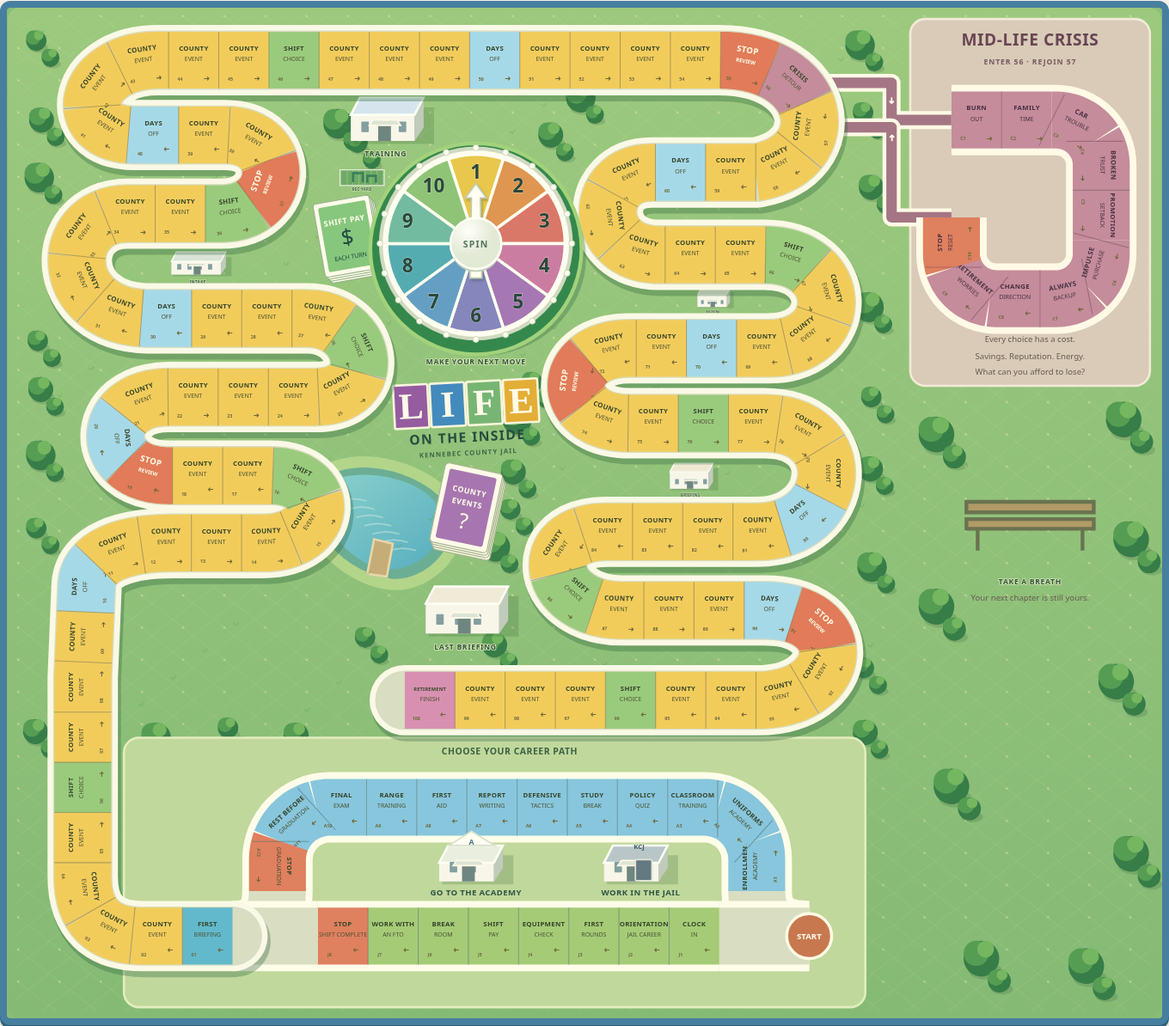
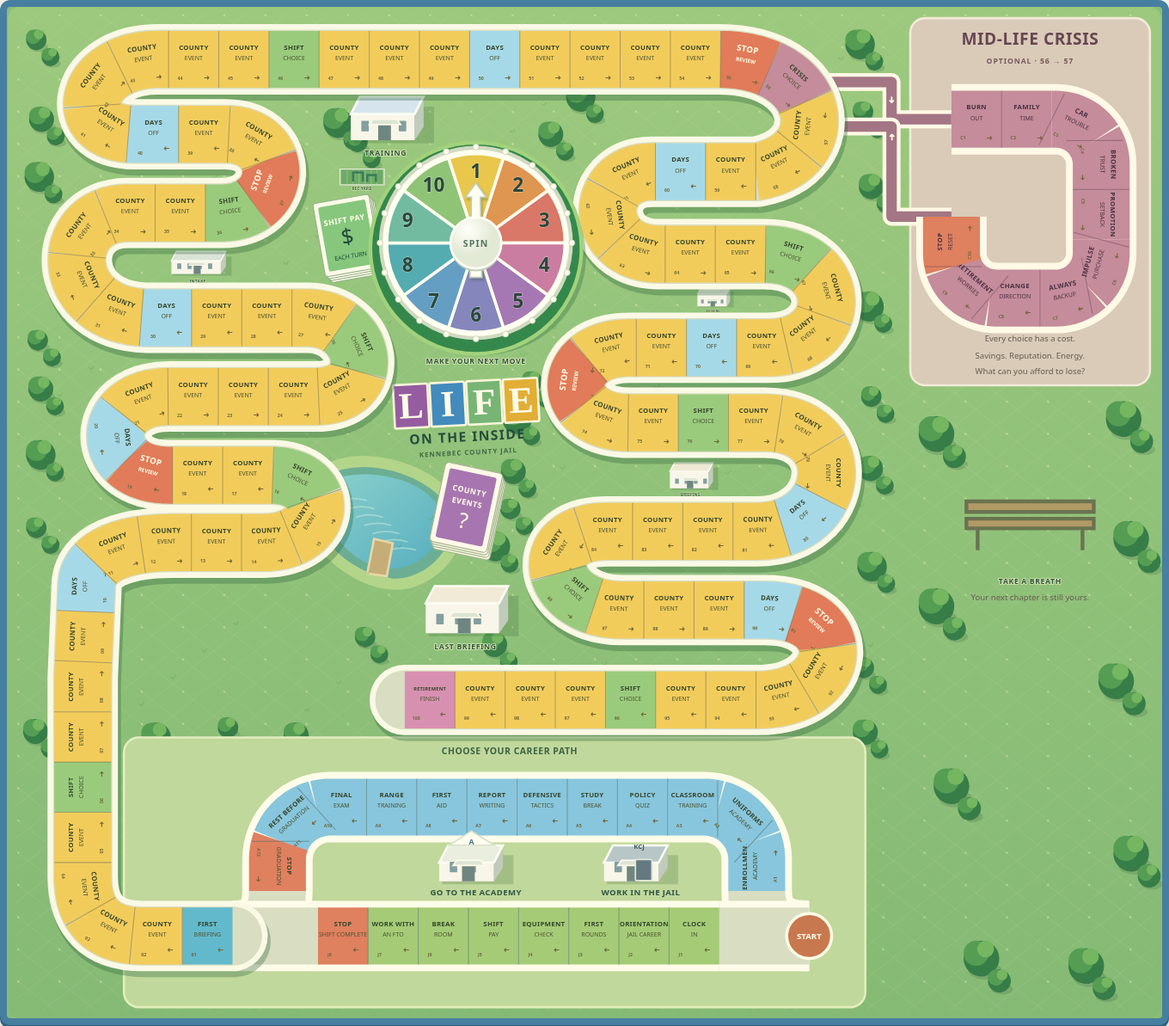
Let players choose whether to take the Mid-Life Crisis detour

diff --git a/public/life/rules.js b/public/life/rules.js
@@ -39,7 +39,7 @@ export const entryTracks={
  ]
 };
 export const inEntry=player=>Number.isInteger(player.entryPosition);
-// Stop 56 sends each career through this branch once; Stop 57 is the rejoin point.
+// Stop 56 offers this optional branch once; both routes continue at Stop 57.
 export const crisisFork=55,crisisRejoin=56;
 export const crisisSpaces=[
  {name:'Burnout',lines:['BURN','OUT'],text:'The long shifts are catching up with you. Rest costs money; pushing through costs you.',options:[option('Take unpaid leave',-900,0,4),option('Push through extra shifts',250,-1,-4)]},
@@ -54,7 +54,8 @@ export const crisisSpaces=[
  {name:'A New Chapter',lines:['STOP','RESET'],text:'Set your priorities for the next chapter. Neither choice is free. After this decision, rejoin the main road at Stop 57.',options:[option('Set boundaries and recover',-600,0,3),option('Chase the next paycheck',300,-2,-3)]}
 ];
 export const inCrisis=player=>Number.isInteger(player.crisisPosition);
-function enterCrisis(g,p){p.crisisPosition=0;g.pending={type:'crisis'};g.phase='choice';entry(g,`${p.name} entered the Mid-Life Crisis detour at Stop 56.`);}
+function offerCrisis(g,p){g.pending={type:'crisis-fork'};g.phase='choice';entry(g,`${p.name} reached the Mid-Life Crisis choice at Stop 56.`);}
+function enterCrisis(g,p){p.crisisTaken=true;p.crisisPosition=0;g.pending={type:'crisis'};g.phase='choice';entry(g,`${p.name} entered the Mid-Life Crisis detour at Stop 56.`);}
 // Original career events. Values are game money, rather than county pay rates.
 export const events=[
  {id:'holiday',title:'Holiday coverage',icon:'☀',text:'The holiday roster has an empty spot. Your family has plans, too.',options:[option('Take the holiday shift',650,1,-3),option('Keep your day off',0,0,3)]},
@@ -97,7 +98,7 @@ export function validateRoster(roster){
  const names=new Set(),chosen=new Set();
  return roster.map(p=>{const name=typeof p.name==='string'?p.name.trim():'';if(!name||name.length>30)throw Error('Give every player a name of up to 30 characters.');if(names.has(name.toLowerCase()))throw Error('Each player needs a different name.');if(!pawns.some(c=>c.id===p.pawn)||chosen.has(p.pawn))throw Error('Choose a different pawn for each player.');names.add(name.toLowerCase());chosen.add(p.pawn);return {name,pawn:p.pawn};});
 }
-export function createGame(roster,random=Math.random){return {version:1,boardSize:spaceCount,players:validateRoster(roster).map(p=>({...p,position:0,cash:1000,reputation:3,energy:7,rank:0,retired:false,academyDone:false,careerPath:null,entryPosition:null,crisisPosition:null,crisisDone:false})),turn:0,phase:'choice',deck:shuffle(events.map(e=>e.id),random),cursor:0,dice:null,route:[],pending:{type:'academy'},log:['The crew has arrived for their first briefing.'],turns:0};}
+export function createGame(roster,random=Math.random){return {version:1,boardSize:spaceCount,players:validateRoster(roster).map(p=>({...p,position:0,cash:1000,reputation:3,energy:7,rank:0,retired:false,academyDone:false,careerPath:null,entryPosition:null,crisisPosition:null,crisisDone:false,crisisTaken:false})),turn:0,phase:'choice',deck:shuffle(events.map(e=>e.id),random),cursor:0,dice:null,route:[],pending:{type:'academy'},log:['The crew has arrived for their first briefing.'],turns:0};}
 export const score=p=>p.cash+p.reputation*100+p.energy*50;
 export function standings(game){return game.players.map((p,i)=>({...p,index:i,score:score(p)})).sort((a,b)=>b.score-a.score);}
 const clamp=n=>Math.max(0,Math.min(10,n));
@@ -110,6 +111,7 @@ export function decision(game){
  if(game.pending.type==='entry'){
   const space=entryTracks[p.careerPath][p.entryPosition];return {title:(p.careerPath==='academy'?'Academy · ':'Jail career · ')+space.name,icon:space.promote?'★':'◷',text:space.text,options:[{...option(space.promote?'Graduate and join the main road':p.entryPosition===entryTracks[p.careerPath].length-1?'Join the main career road':'Continue',space.cash||0,space.reputation||0,space.energy||0),promote:!!space.promote}]};
  }
+ if(game.pending.type==='crisis-fork')return {title:'Mid-Life Crisis · Choose your path',icon:'⇄',text:'Stay on the main road, or take the optional ten-space Mid-Life Crisis detour. The detour brings difficult tradeoffs between savings, reputation, and energy. Both paths continue at Stop 57.',options:[option('Stay on the main road'),option('Take the Mid-Life Crisis detour')]};
  if(game.pending.type==='crisis'){const space=crisisSpaces[p.crisisPosition];return {...space,title:'Mid-Life Crisis · '+space.name,icon:'⚡'};}
  if(game.pending.type==='event')return events.find(e=>e.id===game.pending.id);
  if(game.pending.type==='shift')return {title:'Your shift. Your call.',icon:'◷',text:'Money, experience, or a little breathing room? Choose what you need today.',options:[option('Work overtime',550,0,-3),option('Take a training shift',-100,3,-1),option('Take a recovery day',-50,0,4)]};
@@ -133,17 +135,17 @@ export function perform(before,action,random=Math.random){
   const start=p.position,fork=!p.crisisDone&&start<=crisisFork&&start+g.dice>=crisisFork,end=fork?crisisFork:Math.min(lastSpace,start+g.dice);g.route=Array.from({length:end-start},(_,i)=>start+i+1);p.position=end;
   // Passing reviews gives every career a chance to advance, even with large rolls.
   const review=g.route.some(n=>spaces[n].type==='promotion');
-  if(fork){if(review){g.pending={type:'promotion',thenCrisis:true};g.phase='choice';}else enterCrisis(g,p);return g;}
+  if(fork){if(review){g.pending={type:'promotion',thenCrisis:true};g.phase='choice';}else offerCrisis(g,p);return g;}
   if(end===lastSpace){p.retired=true;g.phase='end';g.pending=null;entry(g,`${p.name} retired with a score of ${score(p).toLocaleString('en-US')}.`);}
   else {let type=review?'promotion':spaces[end].type;if(type==='event'){if(g.cursor===g.deck.length){g.deck=shuffle(events.map(e=>e.id),random);g.cursor=0;}g.pending={type,id:g.deck[g.cursor++]};}else g.pending={type};g.phase='choice';}
  }else if(action.type==='choose'){
   if(g.phase!=='choice')throw Error('There is no decision to make.');
   const event=decision(g),choice=Number.isInteger(action.index)?event.options[action.index]:null;
   if(!choice||choice.disabled)throw Error('Choose an available option.');
-  const academy=g.pending.type==='academy',crisis=g.pending.type==='crisis',thenCrisis=!!g.pending.thenCrisis,finishCrisis=crisis&&p.crisisPosition===crisisSpaces.length-1,finishEntry=g.pending.type==='entry'&&p.entryPosition===entryTracks[p.careerPath].length-1;apply(p,choice);if(choice.promote)p.rank++;
+  const academy=g.pending.type==='academy',forkChoice=g.pending.type==='crisis-fork',crisis=g.pending.type==='crisis',thenCrisis=!!g.pending.thenCrisis,finishCrisis=crisis&&p.crisisPosition===crisisSpaces.length-1,finishEntry=g.pending.type==='entry'&&p.entryPosition===entryTracks[p.careerPath].length-1;apply(p,choice);if(choice.promote)p.rank++;
   // Exhaustion costs game money, then gives enough rest to keep playing.
-  let recovery='';if(p.energy===0){p.cash-=200;p.energy=3;recovery=' Exhaustion: $200 recovery cost; energy restored to 3.';}
-  entry(g,`${p.name}: ${crisis?event.title+' — ':''}${choice.label}.${recovery}`);g.pending=null;g.phase=academy?'roll':'end';if(academy){p.academyDone=true;p.careerPath=action.index===0?'academy':'jail';p.entryPosition=0;}if(finishEntry)p.entryPosition=null;if(finishCrisis){p.crisisPosition=null;p.crisisDone=true;p.position=crisisRejoin;entry(g,`${p.name} rejoined the main road at Stop 57.`);}if(thenCrisis)enterCrisis(g,p);
+  let recovery='';if(p.energy===0&&!forkChoice){p.cash-=200;p.energy=3;recovery=' Exhaustion: $200 recovery cost; energy restored to 3.';}
+  entry(g,`${p.name}: ${crisis?event.title+' — ':''}${choice.label}.${recovery}`);g.pending=null;g.phase=academy?'roll':'end';if(academy){p.academyDone=true;p.careerPath=action.index===0?'academy':'jail';p.entryPosition=0;}if(finishEntry)p.entryPosition=null;if(finishCrisis){p.crisisPosition=null;p.crisisDone=true;p.position=crisisRejoin;entry(g,`${p.name} rejoined the main road at Stop 57.`);}if(thenCrisis)offerCrisis(g,p);if(forkChoice){if(action.index===1)enterCrisis(g,p);else{p.crisisDone=true;p.crisisTaken=false;p.position=crisisRejoin;entry(g,`${p.name} stayed on the main road and continued to Stop 57.`);}}
  }else if(action.type==='end'){
   if(g.phase!=='end')throw Error('Resolve the shift before ending your turn.');
   g.turns++;g.route=[];
@@ -159,9 +161,9 @@ export function validateGame(g){
  const savedSize=g.boardSize===undefined?36:g.boardSize;if(![36,spaceCount].includes(savedSize))throw Error('This saved career could not be read.');
  if(!['roll','choice','end','over'].includes(g.phase)||!integer(g.turn,0,g.players.length-1)||!integer(g.turns,0,10000)||!Array.isArray(g.deck)||g.deck.length!==events.length||new Set(g.deck).size!==events.length||g.deck.some(id=>!events.some(e=>e.id===id))||!integer(g.cursor,0,g.deck.length)||!Array.isArray(g.log)||g.log.some(t=>typeof t!=='string')||!Array.isArray(g.route)||g.route.some(n=>!integer(n,1,savedSize-1))||(g.dice!==null&&!integer(g.dice,1,spinnerMax)))throw Error('This saved career could not be read.');
  for(const p of g.players)if(!integer(p.position,0,savedSize-1)||!Number.isSafeInteger(p.cash)||!integer(p.rank,0,4)||!integer(p.reputation,0,10)||!integer(p.energy,0,10)||typeof p.retired!=='boolean'||typeof p.academyDone!=='boolean'||(p.careerPath!==undefined&&![null,'academy','jail'].includes(p.careerPath))||p.retired!==(p.position===savedSize-1))throw Error('This saved career could not be read.');
- for(const p of g.players)if((p.crisisDone!==undefined&&typeof p.crisisDone!=='boolean')||(p.crisisPosition!==undefined&&p.crisisPosition!==null&&(!integer(p.crisisPosition,0,crisisSpaces.length-1)||p.crisisDone||!p.academyDone||inEntry(p)||p.position!==crisisFork||p.retired)))throw Error('This saved career could not be read.');
+ for(const p of g.players)if((p.crisisDone!==undefined&&typeof p.crisisDone!=='boolean')||(p.crisisTaken!==undefined&&typeof p.crisisTaken!=='boolean')||(p.crisisPosition!==undefined&&p.crisisPosition!==null&&(!integer(p.crisisPosition,0,crisisSpaces.length-1)||p.crisisDone||!p.academyDone||inEntry(p)||p.position!==crisisFork||p.retired)))throw Error('This saved career could not be read.');
  for(const p of g.players)if(p.entryPosition!==undefined&&p.entryPosition!==null&&(!integer(p.entryPosition,0,(entryTracks[p.careerPath]?.length||0)-1)||!p.academyDone||p.position!==0||p.retired))throw Error('This saved career could not be read.');
- if(g.phase==='choice'&&(!g.pending||!['academy','entry','crisis','promotion','shift','rest','event'].includes(g.pending.type)||(g.pending.type==='event'&&!events.some(e=>e.id===g.pending.id))||(g.pending.type==='entry'&&!inEntry(g.players[g.turn]))||(g.pending.type==='crisis'&&!inCrisis(g.players[g.turn]))||(g.pending.thenCrisis!==undefined&&(g.pending.thenCrisis!==true||g.pending.type!=='promotion'||g.players[g.turn].position!==crisisFork||g.players[g.turn].crisisDone||inEntry(g.players[g.turn])||inCrisis(g.players[g.turn])))))throw Error('This saved career could not be read.');
+ if(g.phase==='choice'&&(!g.pending||!['academy','entry','crisis-fork','crisis','promotion','shift','rest','event'].includes(g.pending.type)||(g.pending.type==='event'&&!events.some(e=>e.id===g.pending.id))||(g.pending.type==='entry'&&!inEntry(g.players[g.turn]))||(g.pending.type==='crisis'&&!inCrisis(g.players[g.turn]))||(g.pending.type==='crisis-fork'&&(g.players[g.turn].position!==crisisFork||g.players[g.turn].crisisDone||inCrisis(g.players[g.turn])||inEntry(g.players[g.turn])||!g.players[g.turn].academyDone))||(g.pending.thenCrisis!==undefined&&(g.pending.thenCrisis!==true||g.pending.type!=='promotion'||g.players[g.turn].position!==crisisFork||g.players[g.turn].crisisDone||inEntry(g.players[g.turn])||inCrisis(g.players[g.turn])))))throw Error('This saved career could not be read.');
  if(g.phase==='over'?!g.players.every(p=>p.retired):g.phase!=='end'&&g.players[g.turn].retired)throw Error('This saved career could not be read.');
  if(savedSize!==spaceCount){
   const migrated=structuredClone(g),position=n=>Math.round(n/(savedSize-1)*lastSpace);

diff --git a/public/life.html b/public/life.html
@@ -1,10 +1,10 @@
 <!doctype html><html lang="en"><head><meta charset="utf-8"><meta name="viewport" content="width=device-width,initial-scale=1"><title>Life on the Inside · The County Career</title><link rel="stylesheet" href="/life/style.css"><link rel="stylesheet" href="/life/board.css"><link rel="stylesheet" href="/online.css"><script type="module" src="/life/app.js"></script></head><body>
 <header class="life-header"><a class="life-brand" href="/"><span class="brand-stamp" aria-hidden="true">L</span><span>Life on the Inside<small>THE COUNTY CAREER</small></span></a><nav><button id="showRules" class="text-button" type="button">How to play</button><a href="/">All games</a></nav></header>
 <main id="lifeMain"><section class="game-intro"><div><p class="eyebrow">KENNEBEC COUNTY JAIL</p><h1>A career worth<br>talking about.</h1></div><p>Work the shift. Look after your crew.<br>Make it to retirement your way.</p></section>
-<div class="career-layout"><section class="board-panel" aria-label="Career board"><div class="board-heading"><span>THE COUNTY CAREER</span><a href="/life-preview">View board mockup</a></div><div id="careerBoard" class="career-board" aria-label="Career path from first briefing to retirement"><div id="careerTiles" class="career-tiles"></div><div id="careerTokens" class="career-tokens"></div></div><div class="board-key"><span><b>Yellow</b> County event</span><span><b>Coral</b> Promotion</span><span><b>Green</b> Shift choice</span><span><b>Blue</b> Days off</span><span><b>Rose</b> Mid-Life Crisis</span></div><p class="board-note">Play through the Academy or jail starting spaces, then follow the main road from First Briefing to Retirement. Passing a promotion stop triggers a review. Stop 56 sends you through the 10-space Mid-Life Crisis detour; rejoin at Stop 57.</p></section>
+<div class="career-layout"><section class="board-panel" aria-label="Career board"><div class="board-heading"><span>THE COUNTY CAREER</span><a href="/life-preview">View board mockup</a></div><div id="careerBoard" class="career-board" aria-label="Career path from first briefing to retirement"><div id="careerTiles" class="career-tiles"></div><div id="careerTokens" class="career-tokens"></div></div><div class="board-key"><span><b>Yellow</b> County event</span><span><b>Coral</b> Promotion</span><span><b>Green</b> Shift choice</span><span><b>Blue</b> Days off</span><span><b>Rose</b> Mid-Life Crisis</span></div><p class="board-note">Play through the Academy or jail starting spaces, then follow the main road from First Briefing to Retirement. Passing a promotion stop triggers a review. At Stop 56, choose the main road or the optional 10-space Mid-Life Crisis detour. Both continue at Stop 57.</p></section>
 <section class="turn-panel" aria-label="Turn controls"><p id="turnEyebrow" class="eyebrow">ON THE CLOCK</p><h2 id="turnName">Loading your crew…</h2><p id="turnRank"></p><div id="turnStats" class="turn-stats"></div><div class="roll-area"><span id="careerDie" class="spinner-result" aria-label="Spinner ready">–</span><p id="turnHint" role="status" aria-live="polite"></p></div><button id="rollCareer" class="primary" type="button">Spin for your shift →</button><button id="openDecision" class="primary" type="button" hidden>Make your decision →</button><button id="endCareerTurn" class="primary" type="button" hidden>End turn →</button><p id="lifeError" class="error" role="alert"></p><button data-end-game class="text-button danger" type="button" hidden>End game</button></section></div>
 <section class="roster-section" aria-labelledby="rosterTitle"><div class="section-heading"><p class="eyebrow">YOUR CREW</p><h2 id="rosterTitle">Everyone’s building a story.</h2></div><div id="careerRoster" class="career-roster"></div></section>
 <section id="careerResults" class="results" aria-labelledby="resultsTitle" hidden><p class="eyebrow">THE FINAL BRIEFING</p><h2 id="resultsTitle"></h2><p>Savings + $100 per reputation + $50 per energy.</p><ol id="finalScores"></ol><a class="primary" href="/life-setup">Play again →</a></section>
 <details class="shift-log"><summary>Shift log</summary><ol id="careerLog"></ol></details></main>
 <dialog id="careerDecision" class="decision-dialog" aria-labelledby="decisionTitle"><button id="closeDecision" class="dialog-close" type="button" aria-label="Close decision">×</button><p id="decisionPlayer" class="eyebrow"></p><span id="decisionIcon" class="decision-icon" aria-hidden="true"></span><h2 id="decisionTitle"></h2><p id="decisionText"></p><div id="decisionOptions"></div><p id="decisionError" class="error" role="alert"></p><p class="dialog-note">Your choice becomes part of your career.</p></dialog>
-<dialog id="careerRules" class="rules-dialog" aria-labelledby="rulesTitle"><button id="closeRules" class="dialog-close" type="button" aria-label="Close rules">×</button><p class="eyebrow">THE COUNTY CAREER</p><h2 id="rulesTitle">Get to retirement. Keep a little life.</h2><p>First choose Go to the Academy ($500 cost, 12 spaces) or Work in the Jail (+$300, 8 spaces). Both choices use 1 energy. Spin to move through your starting route and resolve the space you land on. You must stop at Graduation or First Shift Complete; unused movement ends there. Academy graduation gives you 3 reputation and Officer rank. After resolving the final starting space, join First Briefing and begin the main road on your next turn. Each spin (1–10) earns $200 shift pay plus $150 per rank above Rookie. Each turn uses 1 energy. Passing a promotion review offers a rank increase in exchange for reputation and energy. Other stops bring events, shift choices, or days off.</p><p>At Stop 56, every career enters the ten-space Mid-Life Crisis branch once. Unused movement ends at the fork. If you passed a promotion review on the way, resolve it before the first crisis choice. Make the first crisis decision, then spin on later turns and face the dilemma you land on. You must stop at the last crisis space and make its choice before rejoining Stop 57; unused movement ends there too. Each option trades savings, reputation, or energy.</p><p>Read the effects before choosing. Reputation and energy stay between 0 and 10. Reaching zero energy after a decision triggers $200 recovery and restores energy to 3. Savings can become debt.</p><p>You do not need an exact spin to retire. Retired officers stop taking turns. Once the whole crew retires, savings + $100 per reputation + $50 per energy determines the winner. Exact ties share the win.</p><button id="rulesDone" class="primary" type="button">Ready for my shift →</button></dialog><footer>Life on the Inside · The County Career</footer></body></html>
+<dialog id="careerRules" class="rules-dialog" aria-labelledby="rulesTitle"><button id="closeRules" class="dialog-close" type="button" aria-label="Close rules">×</button><p class="eyebrow">THE COUNTY CAREER</p><h2 id="rulesTitle">Get to retirement. Keep a little life.</h2><p>First choose Go to the Academy ($500 cost, 12 spaces) or Work in the Jail (+$300, 8 spaces). Both choices use 1 energy. Spin to move through your starting route and resolve the space you land on. You must stop at Graduation or First Shift Complete; unused movement ends there. Academy graduation gives you 3 reputation and Officer rank. After resolving the final starting space, join First Briefing and begin the main road on your next turn. Each spin (1–10) earns $200 shift pay plus $150 per rank above Rookie. Each turn uses 1 energy. Passing a promotion review offers a rank increase in exchange for reputation and energy. Other stops bring events, shift choices, or days off.</p><p>At Stop 56, choose whether to stay on the main road or take the optional ten-space Mid-Life Crisis branch. Staying on the main road continues at Stop 57 without any crisis dilemmas. Unused movement ends at the fork. If you passed a promotion review on the way, resolve it before choosing your path. If you take the detour, make the first crisis decision, then spin on later turns and face the dilemma you land on. You must stop at the last crisis space and make its choice before rejoining Stop 57; unused movement ends there too. Each option trades savings, reputation, or energy.</p><p>Read the effects before choosing. Reputation and energy stay between 0 and 10. Reaching zero energy after a decision triggers $200 recovery and restores energy to 3. Savings can become debt.</p><p>You do not need an exact spin to retire. Retired officers stop taking turns. Once the whole crew retires, savings + $100 per reputation + $50 per energy determines the winner. Exact ties share the win.</p><button id="rulesDone" class="primary" type="button">Ready for my shift →</button></dialog><footer>Life on the Inside · The County Career</footer></body></html>

diff --git a/public/life/board.js b/public/life/board.js
@@ -112,7 +112,7 @@ function crisisArea(root,step,point){
  const g=add(root,'g',{class:'crisis-area'}),fork=point((crisisFork+.5)*step),rejoin=point((crisisRejoin+.5)*step);
  add(g,'rect',{x:1205,y:15,width:320,height:490,rx:20,fill:'#d9cbb8',stroke:'#f3ead7','stroke-width':3});
  add(g,'text',{x:1365,y:51,'text-anchor':'middle',class:'crisis-board-title'},'MID-LIFE CRISIS');
- add(g,'text',{x:1365,y:76,'text-anchor':'middle',class:'crisis-board-subtitle'},'ENTER 56 · REJOIN 57');
+ add(g,'text',{x:1365,y:76,'text-anchor':'middle',class:'crisis-board-subtitle'},'OPTIONAL · 56 → 57');
  const entrance=add(g,'path',{d:`M${fork.x} ${fork.y}H1180V150H1260`,fill:'none',stroke:'none','data-crisis-entrance':''});
  const exit=add(g,'path',{d:`M1260 280H1180V${rejoin.y}H${rejoin.x}`,fill:'none',stroke:'none','data-crisis-exit':''});
  for(const line of [entrance,exit]){add(g,'path',{d:line.getAttribute('d'),fill:'none',stroke:'#fff9e5','stroke-width':24,'stroke-linejoin':'round'});add(g,'path',{d:line.getAttribute('d'),fill:'none',stroke:'#a47685','stroke-width':14,'stroke-linejoin':'round'});const p=line.getPointAtLength(line.getTotalLength()*.6),a=line.getPointAtLength(line.getTotalLength()*.6-1),b=line.getPointAtLength(line.getTotalLength()*.6+1);add(g,'text',{x:p.x,y:p.y+4,'text-anchor':'middle',class:'crisis-junction-arrow',transform:`rotate(${Math.atan2(b.y-a.y,b.x-a.x)*180/Math.PI} ${p.x} ${p.y})`},'➜');}
@@ -166,7 +166,7 @@ function spinner(root){
 const names={start:['FIRST','BRIEFING'],retire:['RETIREMENT','FINISH'],promotion:['STOP','REVIEW'],shift:['SHIFT','CHOICE'],rest:['DAYS','OFF'],event:['COUNTY','EVENT']};
 const fills={start:'#62b9cc',retire:'#d890b0',promotion:'#e17b59',shift:'#9acb7d',rest:'#a6d9e8',event:'#f2cc5b'};
 export function createBoard(target){
- const svg=node('svg',{viewBox:`0 0 ${boardWidth} ${boardHeight}`,class:'life-board-art',role:'img','aria-labelledby':'lifeBoardTitle lifeBoardDescription'});add(svg,'title',{id:'lifeBoardTitle'},'Life on the Inside: winding county career board');add(svg,'desc',{id:'lifeBoardDescription'},'A colorful road winds around the Academy, jail buildings, trees and a pond. Twelve Academy spaces and eight jail-career spaces join one hundred numbered stops from first briefing to retirement. A ten-space Mid-Life Crisis detour branches at Stop 56 and rejoins at Stop 57. A ten-number spinner sits in the center.');
+ const svg=node('svg',{viewBox:`0 0 ${boardWidth} ${boardHeight}`,class:'life-board-art',role:'img','aria-labelledby':'lifeBoardTitle lifeBoardDescription'});add(svg,'title',{id:'lifeBoardTitle'},'Life on the Inside: winding county career board');add(svg,'desc',{id:'lifeBoardDescription'},'A colorful road winds around the Academy, jail buildings, trees and a pond. Twelve Academy spaces and eight jail-career spaces join one hundred numbered stops from first briefing to retirement. An optional ten-space Mid-Life Crisis detour branches at Stop 56 and rejoins at Stop 57. A ten-number spinner sits in the center.');
  const defs=add(svg,'defs');
  const grass=add(defs,'linearGradient',{id:'lifeGrass',x2:'0',y2:'1'});add(grass,'stop',{'stop-color':'#9cc97e'});add(grass,'stop',{offset:1,'stop-color':'#85ba75'});
  const meadow=add(defs,'pattern',{id:'lifeMeadow',width:55,height:43,patternUnits:'userSpaceOnUse'});add(meadow,'path',{d:'M0 43L55 0M0 0L55 43',stroke:'#d5e5a9','stroke-width':.7,opacity:.4});add(meadow,'circle',{cx:14,cy:11,r:1.3,fill:'#eff0bd'});
@@ -188,7 +188,7 @@ export function createBoard(target){
   const p=point((i+.5)*step);let angle=p.angle*180/Math.PI;if(angle>90)angle-=180;if(angle<-90)angle+=180;
   const text=add(tile,'g',{transform:`translate(${p.x} ${p.y}) rotate(${angle})`});
   add(text,'text',{x:0,y:-13,'text-anchor':'middle',class:'road-space-title'},i===crisisFork?'CRISIS':names[space.type][0]);
-  add(text,'text',{x:0,y:1,'text-anchor':'middle',class:'road-space-detail'},i===crisisFork?'DETOUR':names[space.type][1]);
+  add(text,'text',{x:0,y:1,'text-anchor':'middle',class:'road-space-detail'},i===crisisFork?'CHOICE':names[space.type][1]);
   add(text,'text',{x:-step*.27,y:27,'text-anchor':'middle',class:'road-space-number'},String(i+1).padStart(2,'0'));
   add(text,'text',{x:step*.26,y:28,'text-anchor':'middle',class:'road-direction',transform:p.angle*180/Math.PI!==angle?'rotate(180 '+step*.26+' 22)':''},'➜');
  });

diff --git a/public/life-setup.html b/public/life-setup.html
@@ -3,4 +3,4 @@
 <main class="life-setup"><p class="eyebrow">KENNEBEC COUNTY JAIL · AN ORIGINAL BOARD GAME</p><h1>First shift.<br>Whole career ahead.</h1><p class="lead">Start as a rookie. Work the roster, earn promotions, and make it to retirement with something left in the tank.</p><div class="setup-facts"><span>2–6 players</span><span>100 career spaces</span><span>One device or room code</span></div>
 <a class="life-preview-link" href="/life-preview">View the board mockup →</a><br><a id="resumeCareer" class="resume-career" href="/life" hidden>Continue your saved career →</a>
 <form id="lifeSetupForm"><h2>Who’s on the roster?</h2><div id="lifePlayerRows"></div><div class="setup-actions"><button id="lifeAddPlayer" class="secondary" type="button">+ Add player</button><button class="primary" type="submit">Begin your careers →</button></div><p id="setupStatus" role="status"></p></form>
-<details class="rules-card"><summary>How do you win?</summary><p>Everyone begins with $1,000, 3 reputation, and 7 energy. First choose: go to the Academy for $500 and play through 12 training spaces, or work in the jail with an extra $300 and 8 work spaces. Either choice uses 1 energy. Spin to move along your starting route and resolve the space you land on. Stop at graduation or completion of your first shift before joining the main road; unused movement ends there. Academy graduation gives 3 reputation and Officer rank. Each spin collects shift pay. Passing a review gives you a chance to earn a promotion. Better ranks earn better pay. Just past halfway, Stop 56 diverts everyone into a ten-space Mid-Life Crisis branch. Face difficult tradeoffs, stop for the final dilemma, then rejoin at Stop 57.</p><p>After everyone retires, the highest total wins: savings + $100 per reputation + $50 per energy. Exact ties share the win. Negative savings count as debt. If a decision leaves you with zero energy, recovery costs $200 and restores energy to 3.</p><p>The amounts and ranks are game rules. Every career follows its own story.</p></details></main><footer>Clock in. Make your choices. Leave a legacy.</footer></body></html>
+<details class="rules-card"><summary>How do you win?</summary><p>Everyone begins with $1,000, 3 reputation, and 7 energy. First choose: go to the Academy for $500 and play through 12 training spaces, or work in the jail with an extra $300 and 8 work spaces. Either choice uses 1 energy. Spin to move along your starting route and resolve the space you land on. Stop at graduation or completion of your first shift before joining the main road; unused movement ends there. Academy graduation gives 3 reputation and Officer rank. Each spin collects shift pay. Passing a review gives you a chance to earn a promotion. Better ranks earn better pay. Just past halfway, Stop 56 lets you choose the main road or an optional ten-space Mid-Life Crisis branch. Take the detour for difficult tradeoffs, or stay on the main road. Both paths continue at Stop 57.</p><p>After everyone retires, the highest total wins: savings + $100 per reputation + $50 per energy. Exact ties share the win. Negative savings count as debt. If a decision leaves you with zero energy, recovery costs $200 and restores energy to 3.</p><p>The amounts and ranks are game rules. Every career follows its own story.</p></details></main><footer>Clock in. Make your choices. Leave a legacy.</footer></body></html>

diff --git a/public/life-preview.html b/public/life-preview.html
@@ -1,3 +1,3 @@
 <!doctype html><html lang="en"><head><meta charset="utf-8"><meta name="viewport" content="width=device-width,initial-scale=1"><meta name="description" content="See the winding board mockup for Life on the Inside, the Kennebec County Jail career game."><title>Life on the Inside · Board mockup</title><link rel="stylesheet" href="/life/style.css"><link rel="stylesheet" href="/life/board.css"><script type="module" src="/life/preview.js"></script></head><body>
 <header class="life-header"><a class="life-brand" href="/"><span class="brand-stamp" aria-hidden="true">L</span><span>Life on the Inside<small>THE COUNTY CAREER</small></span></a><nav aria-label="Game navigation"><a href="/">All games</a><a href="/life-setup">Play the game</a></nav></header>
-<main class="board-preview-main"><span class="preview-tag">BOARD MOCKUP</span><h1>Choose your path.<br>Build your career.</h1><p class="lead">Play through 12 Academy spaces or 8 jail-career spaces, then follow the winding main road with 100 spaces and a ten-number spinner. Just after halfway, a ten-space Mid-Life Crisis branch brings difficult choices before rejoining the main road. Take a look around—this is the layout we can make your own.</p><div class="preview-board-wrap"><div class="board-heading"><span>LIFE ON THE INSIDE</span><span>KENNEBEC COUNTY JAIL</span></div><div id="careerBoard" class="career-board" aria-label="Board mockup"><div id="careerTiles" class="career-tiles"></div></div><div class="board-key"><span><b>Yellow</b> County event</span><span><b>Coral</b> Promotion review</span><span><b>Green</b> Shift choice</span><span><b>Blue</b> Days off</span><span><b>Rose</b> Mid-Life Crisis</span></div></div><div class="preview-actions"><a class="primary" href="/life-setup">Gather your crew →</a><a class="life-preview-link" href="/life/board-mockup.png">Open full-size mockup ↗</a><span id="previewSpinResult" role="status" aria-live="polite">Try the spinner in the middle of the board.</span></div></main><footer>Life on the Inside · The County Career</footer></body></html>
+<main class="board-preview-main"><span class="preview-tag">BOARD MOCKUP</span><h1>Choose your path.<br>Build your career.</h1><p class="lead">Play through 12 Academy spaces or 8 jail-career spaces, then follow the winding main road with 100 spaces and a ten-number spinner. Just after halfway, an optional ten-space Mid-Life Crisis branch brings difficult choices before rejoining the main road. Take a look around—this is the layout we can make your own.</p><div class="preview-board-wrap"><div class="board-heading"><span>LIFE ON THE INSIDE</span><span>KENNEBEC COUNTY JAIL</span></div><div id="careerBoard" class="career-board" aria-label="Board mockup"><div id="careerTiles" class="career-tiles"></div></div><div class="board-key"><span><b>Yellow</b> County event</span><span><b>Coral</b> Promotion review</span><span><b>Green</b> Shift choice</span><span><b>Blue</b> Days off</span><span><b>Rose</b> Mid-Life Crisis</span></div></div><div class="preview-actions"><a class="primary" href="/life-setup">Gather your crew →</a><a class="life-preview-link" href="/life/board-mockup.png">Open full-size mockup ↗</a><span id="previewSpinResult" role="status" aria-live="polite">Try the spinner in the middle of the board.</span></div></main><footer>Life on the Inside · The County Career</footer></body></html>

diff --git a/public/life/app.js b/public/life/app.js
@@ -37,7 +37,7 @@ async function render(previous){
  const currentGeneration=++generation;$('careerTokens').getAnimations({subtree:true}).forEach(a=>a.cancel());board.needle.getAnimations().forEach(a=>a.cancel());moving=false;
  if(!game)return;renderRoster();
  const animations=[];$('careerTokens').replaceChildren();motionHint='Spinning, then making the rounds…';
- const spun=previous&&game.dice&&game.players.some((p,i)=>p.position>previous.players[i].position&&!inCrisis(previous.players[i])||inEntry(p)&&inEntry(previous.players[i])&&p.entryPosition>previous.players[i].entryPosition||inCrisis(p)&&inCrisis(previous.players[i])&&p.crisisPosition>previous.players[i].crisisPosition||previous.phase==='roll'&&game.pending?.type==='crisis');
+ const spun=previous&&previous.phase==='roll'&&game.dice&&game.players.some((p,i)=>p.position>previous.players[i].position&&!inCrisis(previous.players[i])||inEntry(p)&&inEntry(previous.players[i])&&p.entryPosition>previous.players[i].entryPosition||inCrisis(p)&&inCrisis(previous.players[i])&&p.crisisPosition>previous.players[i].crisisPosition||previous.phase==='roll'&&game.pending?.type==='crisis');
  const spinDuration=spun&&!reduced()?1600:0;
  if(spun){const nextAngle=Math.ceil(spinnerAngle/360)*360+1080+(game.dice-1)*spinnerStep;if(spinDuration)animations.push(board.needle.animate([{transform:`rotate(${spinnerAngle}deg)`},{transform:`rotate(${nextAngle}deg)`}],{duration:spinDuration,easing:'cubic-bezier(.15,.65,.12,1)'}));spinnerAngle=nextAngle;board.needle.style.transform=`rotate(${spinnerAngle}deg)`;}else if(!previous){spinnerAngle=((game.dice||1)-1)*spinnerStep;board.needle.style.transform=`rotate(${spinnerAngle}deg)`;}
  game.players.forEach((p,i)=>{const img=el('img','career-token'+(i===game.turn?' active':'')+(inEntry(p)?' on-entry':''));img.src=pawns.find(c=>c.id===p.pawn).icon;img.alt=p.name+' · '+pawns.find(c=>c.id===p.pawn).name;img.title=p.name+' — '+locationLabel(p);const target=!p.academyDone&&p.position===0?board.startCoordinates(i):inCrisis(p)?board.crisisCoordinates(p.crisisPosition,i):inEntry(p)?board.entryCoordinates(p.careerPath,p.entryPosition,i):coordinates(p.position,i);img.style.left=target.left+'%';img.style.top=target.top+'%';$('careerTokens').append(img);

diff --git a/README.md b/README.md
@@ -4,7 +4,7 @@ A collection of county-jail board games on Cloudflare: Monoply, Clue, and Life o
 
 ## Life on the Inside
 
-An original career game at `/life-setup` and `/life` for 2–6 players. Players choose **Go to the Academy** ($500 cost, 12 training spaces) or **Work in the Jail** (+$300, 8 work spaces). Both choices use 1 energy. The starting area has two clickable buildings, segmented playing roads, and readable choice buttons below the board. All 130 spaces share the same road width and distance; the Academy and jail tracks sit in the enlarged lower starting area. Players spin and move along their selected starting road across turns, resolving the space they land on. Each route has a mandatory final stop; unused movement is discarded. Graduation grants +3 reputation and Officer rank. Resolving graduation or First Shift Complete joins the main road at First Briefing for the next turn. Each player's `careerPath` and `entryPosition` are saved; null or omitted `entryPosition` keeps existing careers on the main road. The ten-space Mid-Life Crisis branch starts when a player reaches or passes Stop 56 (index 55), with any crossed promotion review resolved first. Unused movement stops at the fork. Its first dilemma is mandatory; later spins land on crisis dilemmas. The final space is a mandatory stop, and resolving its choice sets `crisisDone`, clears `crisisPosition`, and rejoins the main road at Stop 57 (index 56) for the next turn. Both options on every dilemma carry a resource cost. Existing saves may omit the new fields; players already beyond the fork retain their progress. Each career starts with $1,000, 3 reputation and 7 energy before this choice.
+An original career game at `/life-setup` and `/life` for 2–6 players. Players choose **Go to the Academy** ($500 cost, 12 training spaces) or **Work in the Jail** (+$300, 8 work spaces). Both choices use 1 energy. The starting area has two clickable buildings, segmented playing roads, and readable choice buttons below the board. All 130 spaces share the same road width and distance; the Academy and jail tracks sit in the enlarged lower starting area. Players spin and move along their selected starting road across turns, resolving the space they land on. Each route has a mandatory final stop; unused movement is discarded. Graduation grants +3 reputation and Officer rank. Resolving graduation or First Shift Complete joins the main road at First Briefing for the next turn. Each player's `careerPath` and `entryPosition` are saved; null or omitted `entryPosition` keeps existing careers on the main road. Reaching or passing Stop 56 (index 55) offers a choice: stay on the main road or take the optional ten-space Mid-Life Crisis branch. Resolve any crossed promotion review first. Unused movement stops at the fork. Staying on the main road sets `crisisDone` and continues at Stop 57 without crisis dilemmas. Taking the detour sets `crisisTaken`; its first dilemma is mandatory, and later spins land on crisis dilemmas. The final space is a mandatory stop, and resolving its choice sets `crisisDone`, clears `crisisPosition`, and rejoins the main road at Stop 57 (index 56) for the next turn. Both options on every dilemma carry a resource cost. Existing saves may omit the new fields; players already beyond the fork retain their progress. Each career starts with $1,000, 3 reputation and 7 energy before this choice.
 
 The 100-stop winding road uses a ten-number spinner (1–10) and 24 shuffled, original event cards with decisions. Every spun turn pays $200 plus $150 per rank above Rookie and costs 1 energy. Crossing a promotion review offers advancement even if the spinner passes the space; its decision replaces the landing event. Promotion costs reputation equal to the new rank index and 2 energy. Ranks are Rookie, Officer, FTO, Corporal, Supervisor. Other stops offer overtime, training, days off and county events. Reputation/energy range from 0–10. A decision leaving zero energy costs $200 and restores energy to 3. Negative savings count as debt. These amounts and ranks are fictional game rules.
 
